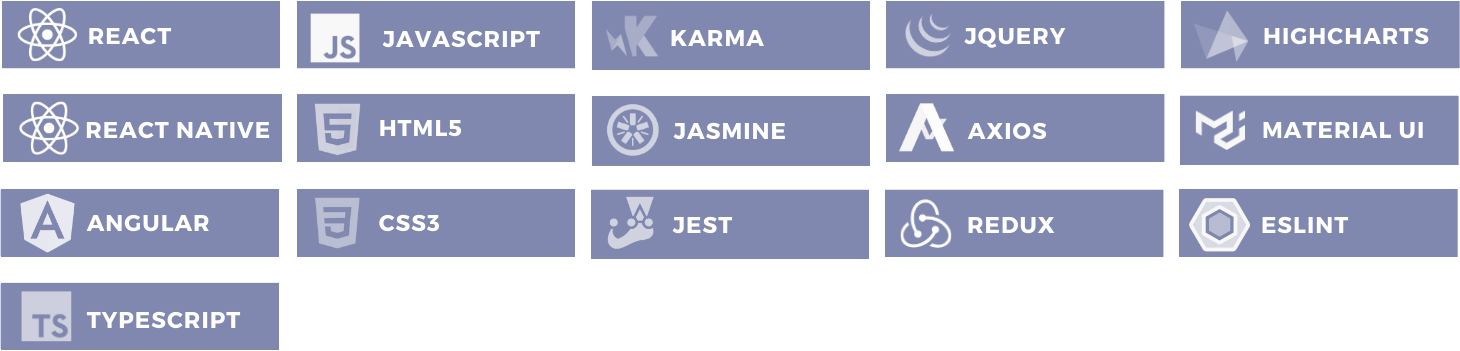
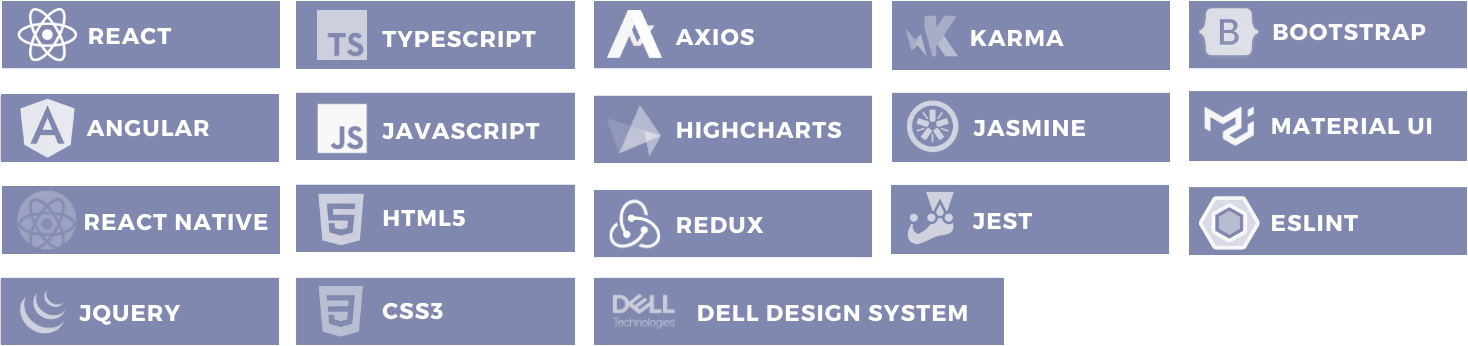
Readme v0.9

diff --git a/README.md b/README.md
@@ -2,9 +2,7 @@
   <img width="80%" src="images/logo.png"/> 
 </p>
 
-🔗 Check out my portfolio: [Portfolio](seu_link_aqui)
-
-### ABOUT ME
+## About me
 
 👋 Hi there! I'm Vitoria Moreira, a passionate coder from Brazil. 🇧🇷
 
@@ -14,22 +12,62 @@
 
 ⌛ 8 years on the programming journey | 💼 Over 3 years in the job market 🚀
 
-
-
-### EXPERTISE IN
+## Expertise in
 
 #### FRONTEND
- <img src="images/frontend.png"/>
+
+<p align="center">
+  <img   width="600" height="130" src="images/frontend.png"/>
+</p>
+
 
 #### BACKEND
- <img src="images/backend.png"/>
 
+<p align="center">
+  <img   width="600" height="60" src="images/backend.png"/>
+</p>
 
 
 #### DEVOPS
- <img src="images/devops.png"/>
 
-<!-- 
-### PROJECTS PRESENTATION
+<p align="center">
+  <img   width="600" height="60" src="images/devops.png"/>
+</p>
 
-[![Watch the video](images/bulding.gif)](...) -->
+## Projects
+
+#### LEAD DELL
+<img align="left" width="280" height="150" src="./images/lead-dell.png">
+
+###### Dell Technologies Projects Showcase 🚀
+
+As a leader in one of Dell Technologies' diverse frontend teams, I've spearheaded the development of internal projects.  💻
+
+🔗 Come take a look: [Dell](seu_link_aqui)
+
+<br>
+
+#### DTAX BRASIL
+
+<img align="right" width="280" height="160" src="./images/dtax.png">
+
+
+###### Dtax Brasil Projects Showcase 💼📊
+
+In Dtax Brasil's dynamic team, I've contributed with the project in Web, Mobile, and Cloud for including tax declaration solutions. 🌐💻📊
+
+
+🔗 Explore our work: [Dtax Brasil ](your-link-here)
+
+<br>
+
+<img align="right" width="280" height="160" src="./images/wecarefitness.png">
+
+#### WE CARE.FITNESS
+
+###### We Care.Fitness Projects Showcase 💪🏋♂
+
+In the dynamic team at We Care.Fitness, I've contributed to projects in Web, Mobile, and Cloud, with a focus on digital fitness solutions. 🌐💻📈
+
+🔗 Explore our work: [We Care.Fitness](your-link-here)
+
